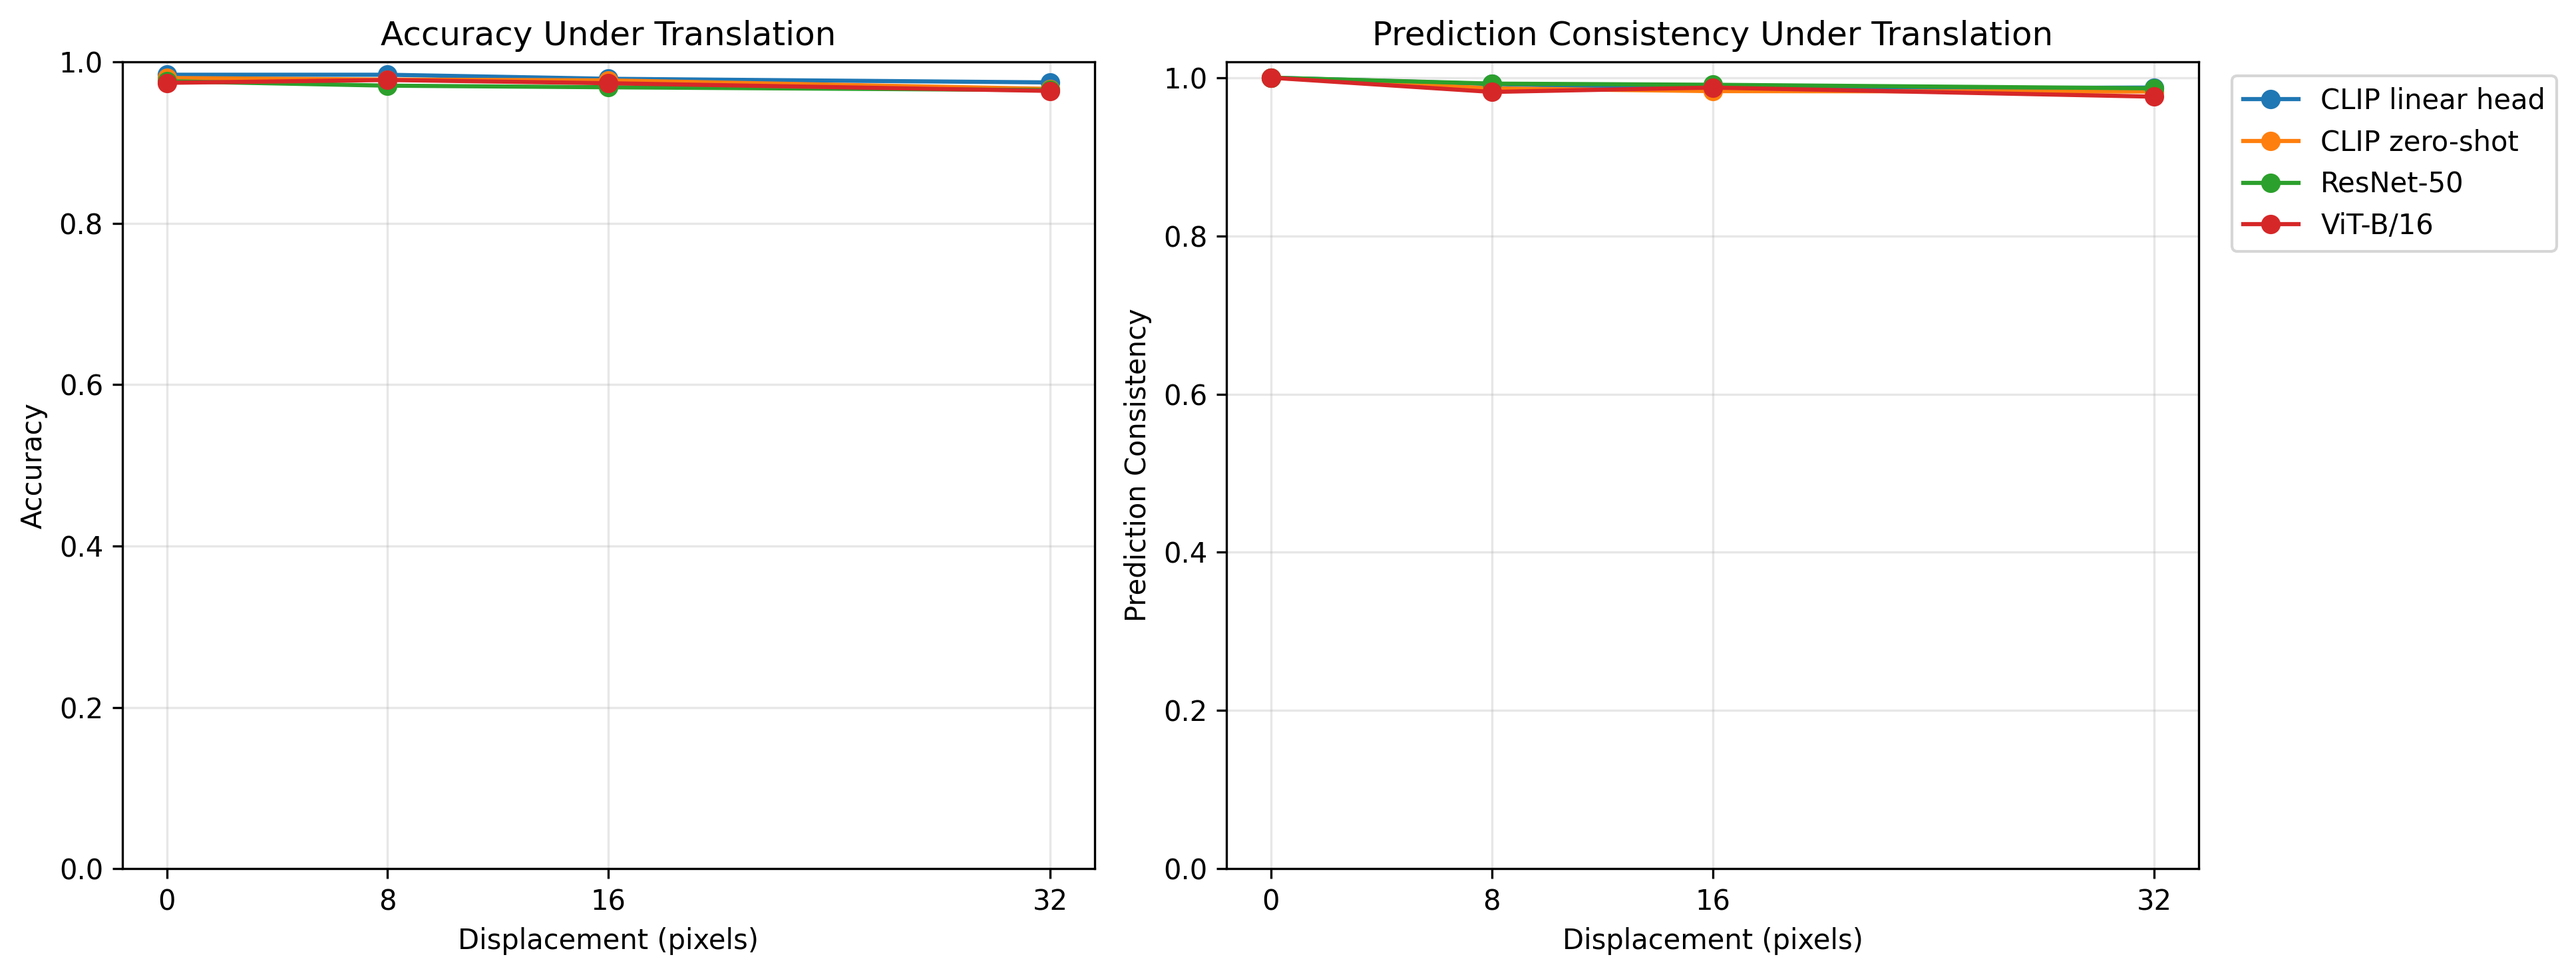
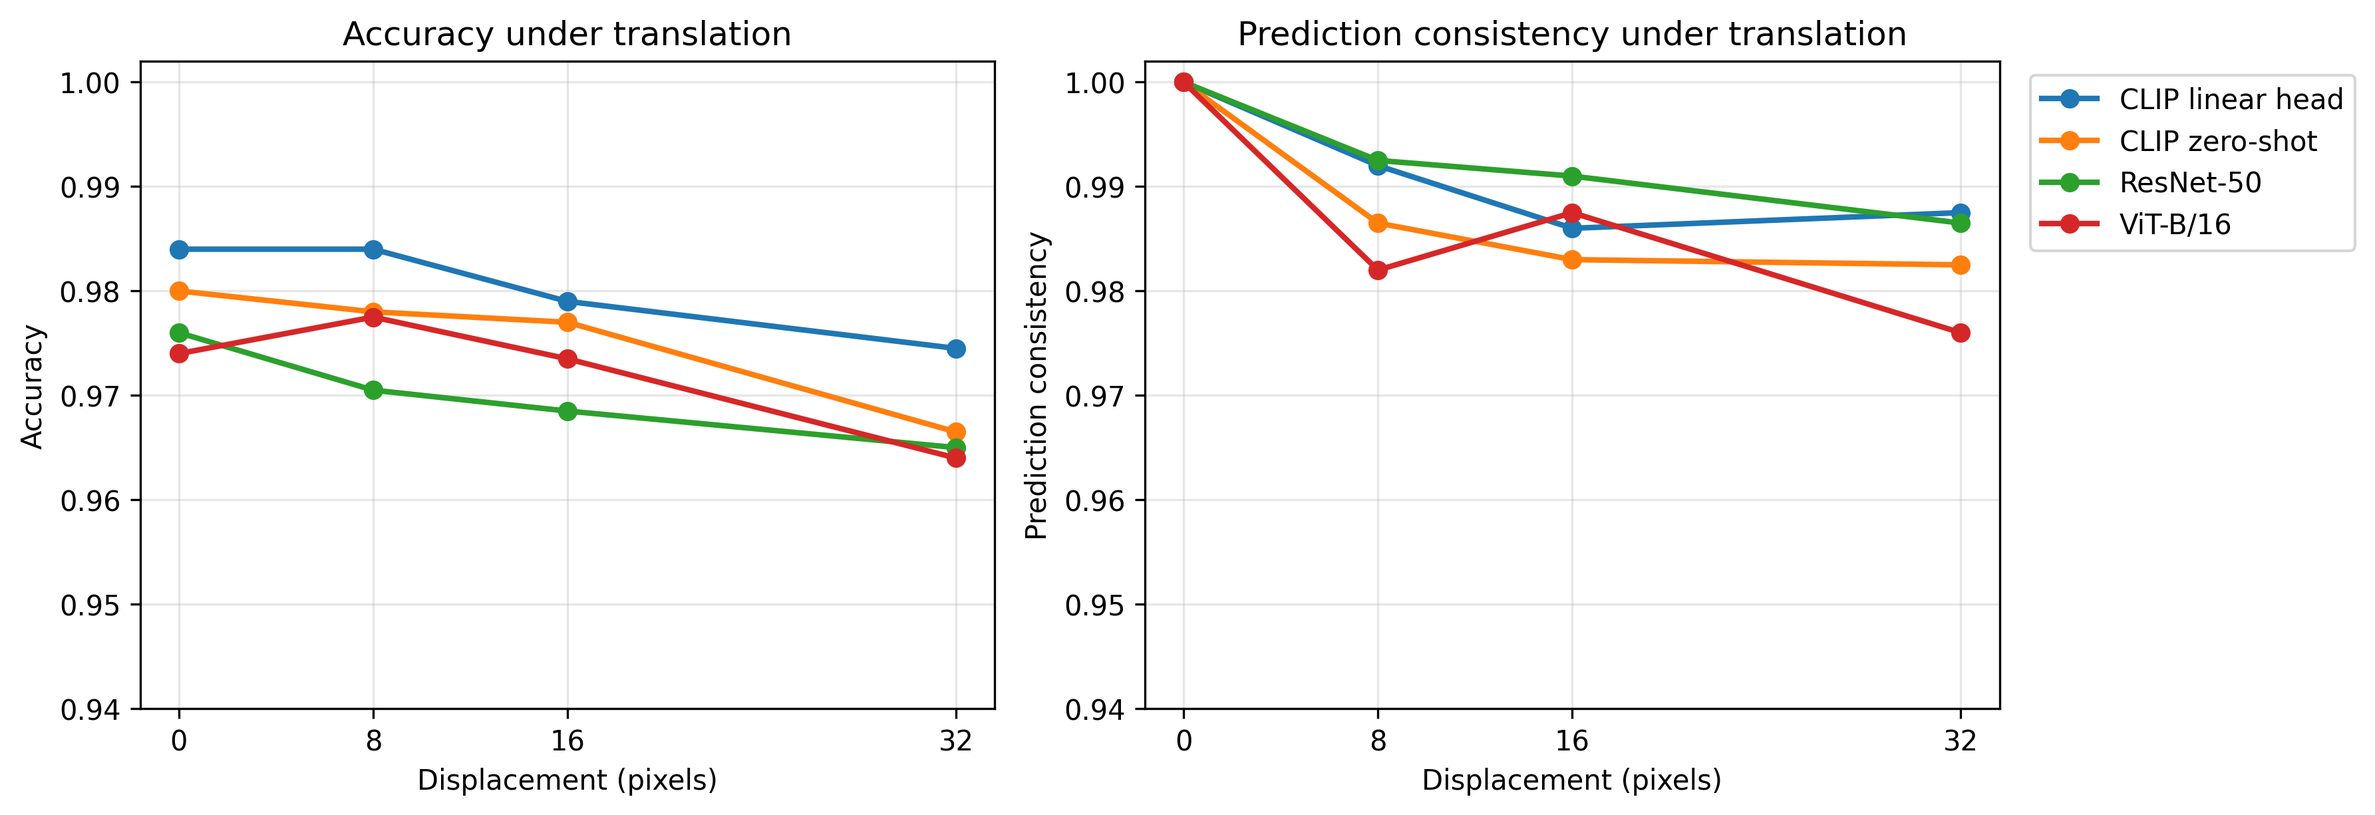
Add Task 1 report figures

diff --git a/task1/scripts/validate_task1.py b/task1/scripts/validate_task1.py
@@ -138,8 +138,8 @@ def main():
     )
 
     report_check(
-        len(figure_files) == 10,
-        "Exactly 10 final figures exist",
+        len(figure_files) == 11,
+        "Exactly 11 final figures exist",
         failures,
     )
 
